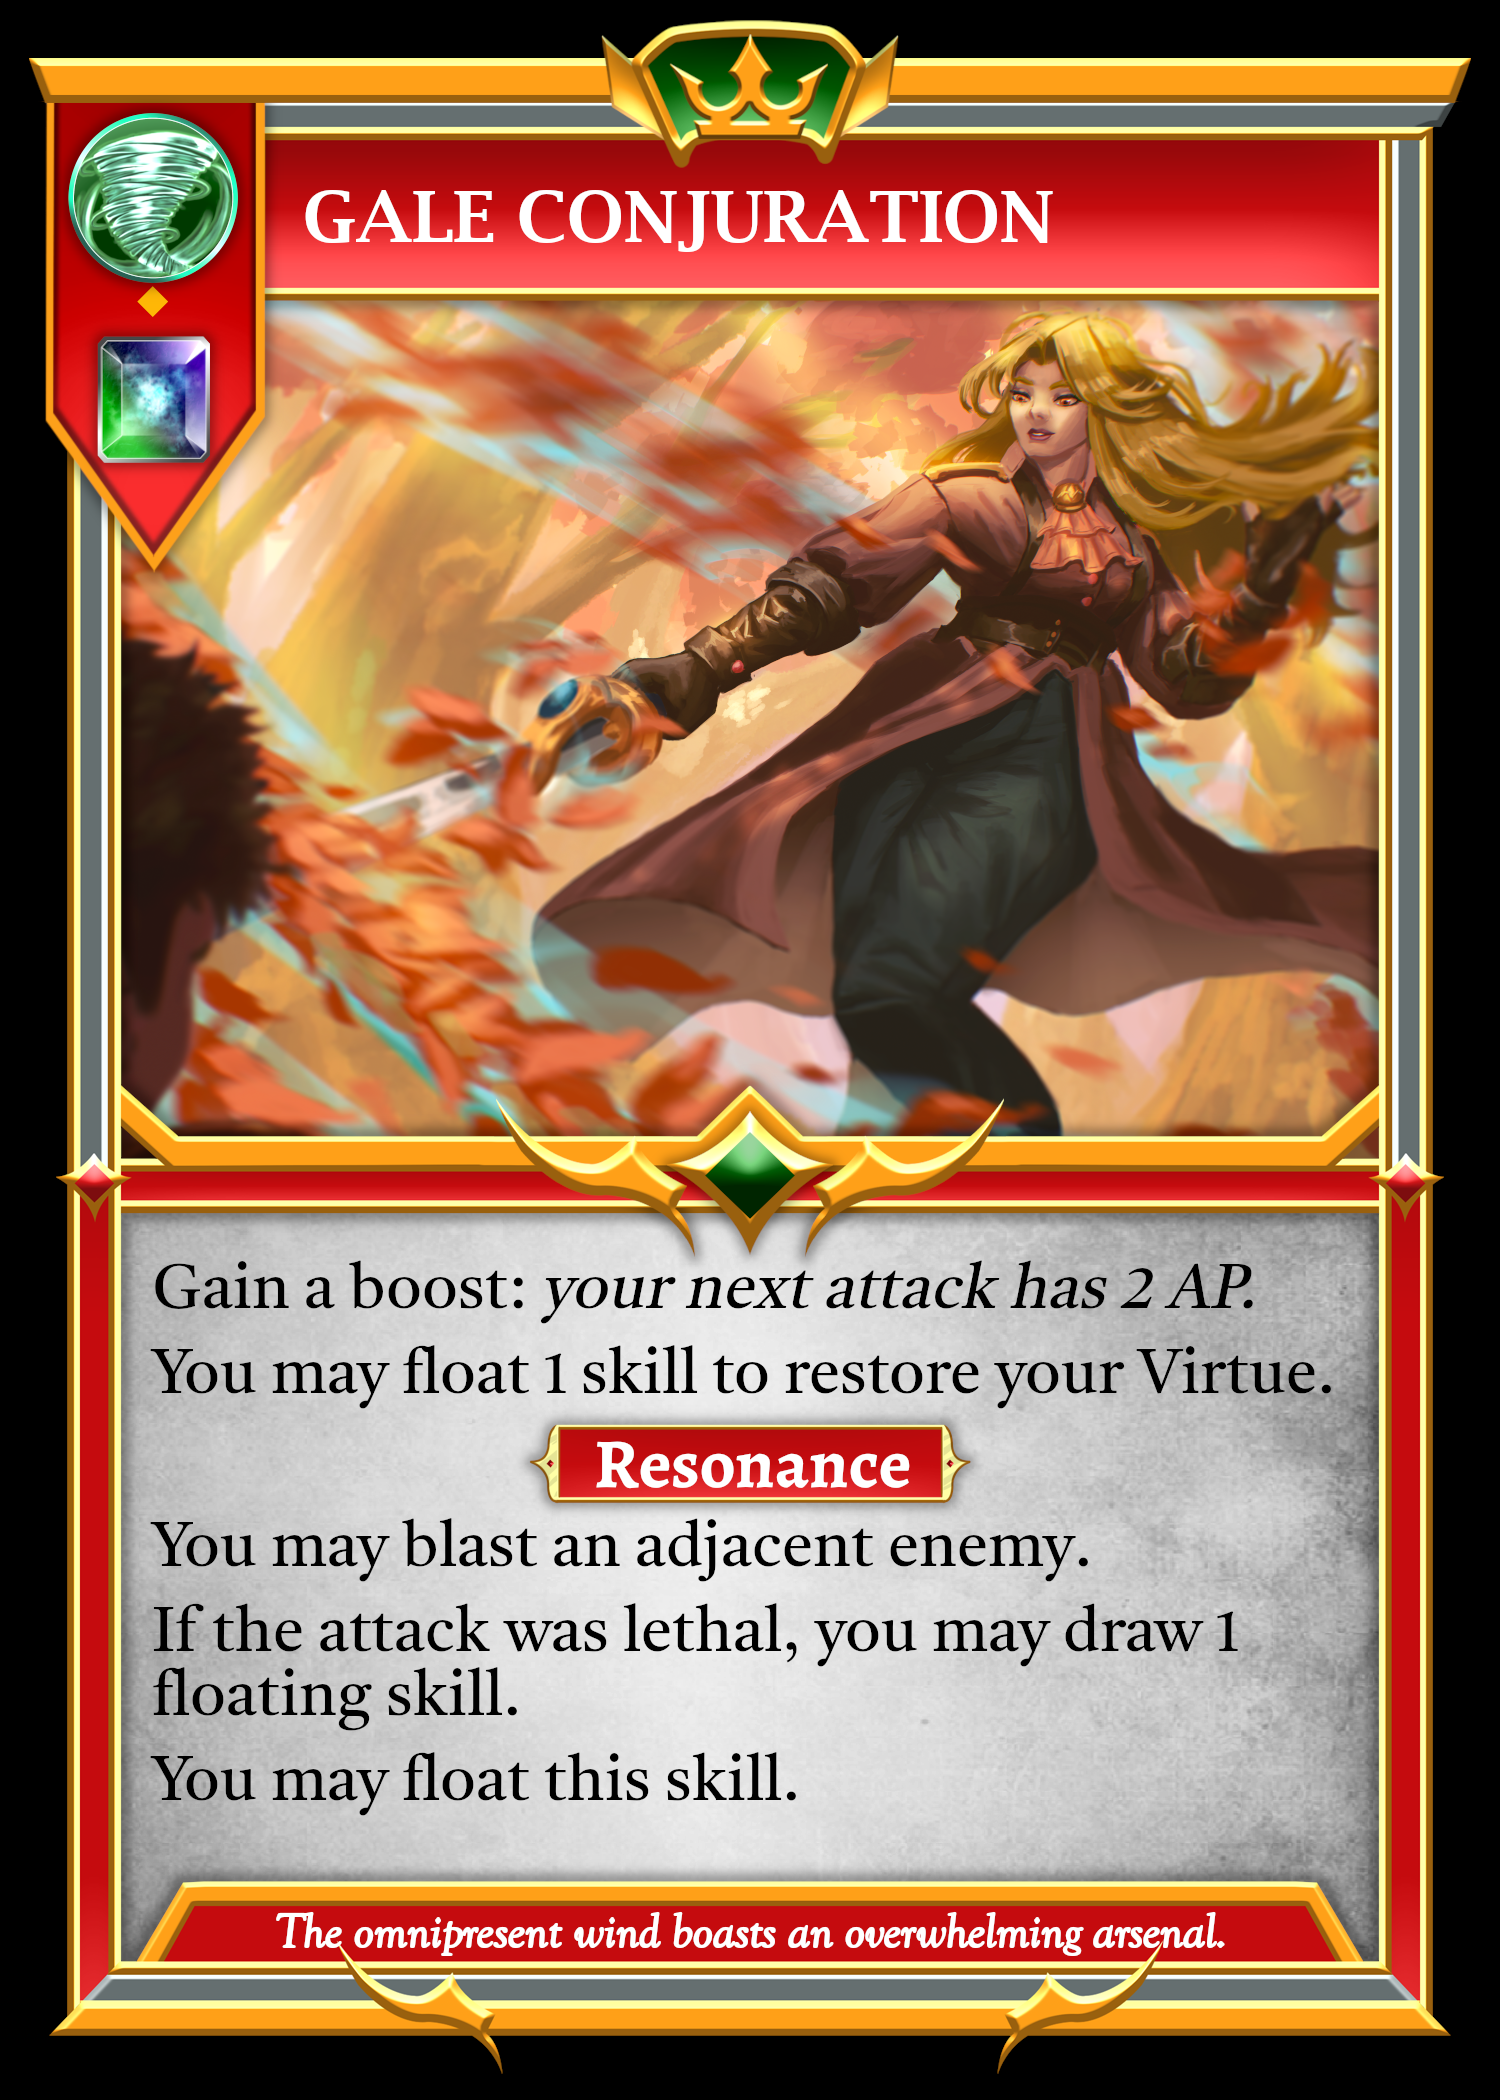
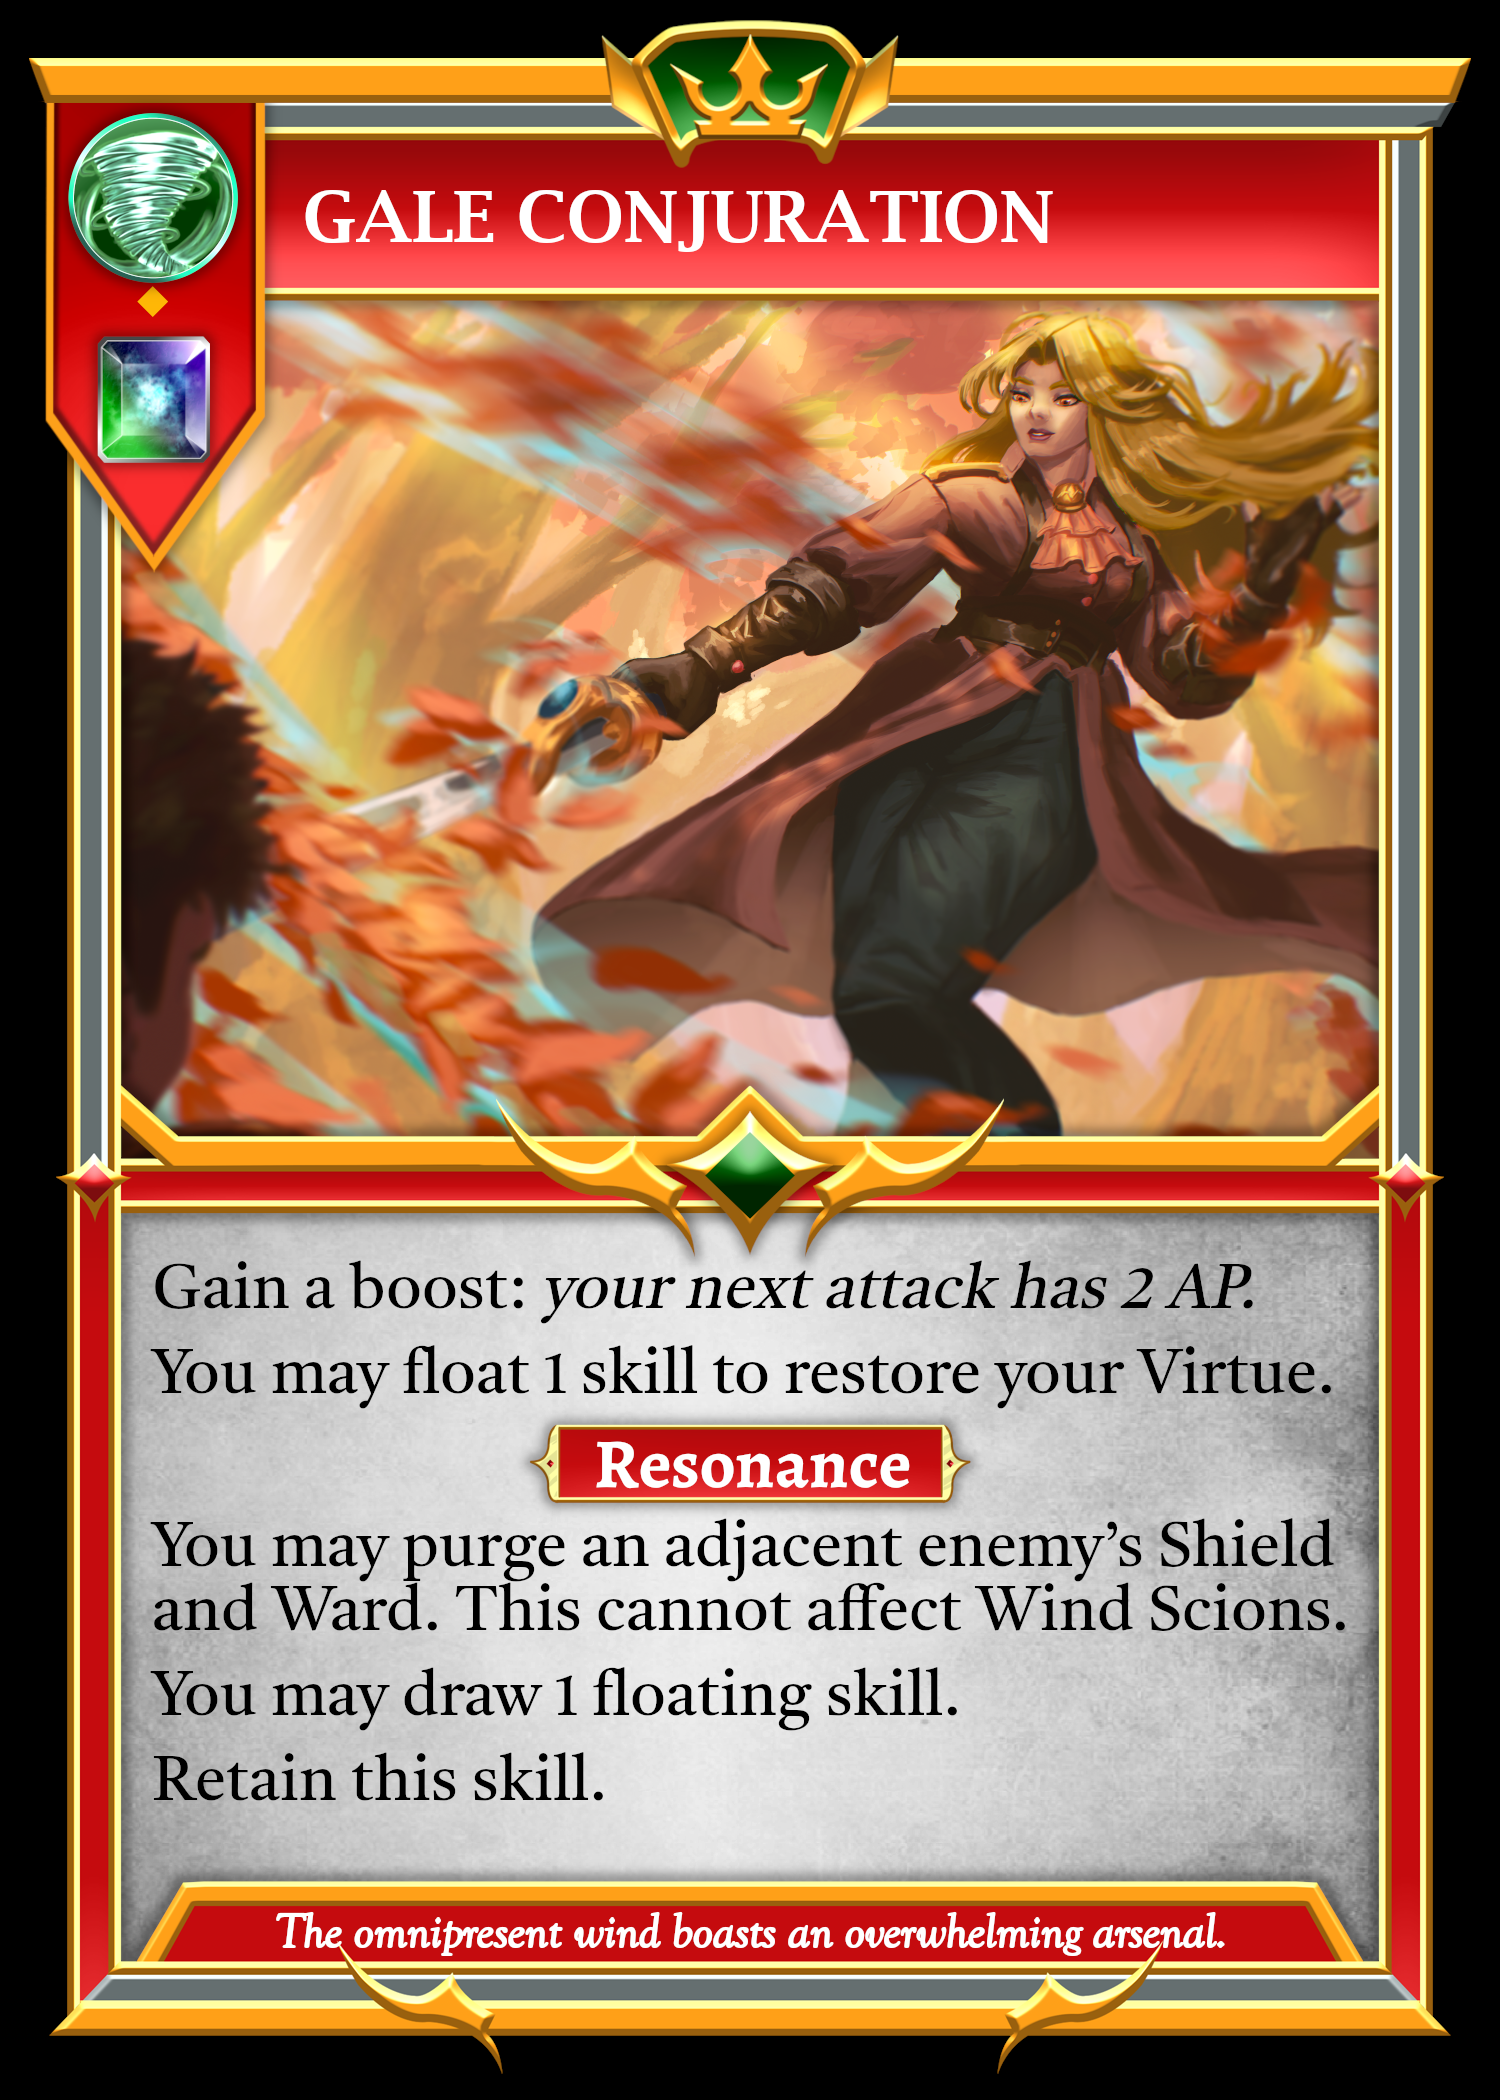
Reworked gale conjuration.

Changed region(s): [[0.092, 0.7119, 0.8893, 0.8667]]

diff --git a/src/hooks/useSkillEffects.jsx b/src/hooks/useSkillEffects.jsx
@@ -24,7 +24,6 @@ export const useSkillEffects = () => {
     isMuted,
     isRooted,
     paralyze1,
-    paralyze2,
   } = useRecurringEffects();
 
   const ignitionPropulsion1 = (unitInfo) => {
@@ -642,7 +641,7 @@ export const useSkillEffects = () => {
     if (resonator !== "SA-02") {
       newGameState.currentResolution.push({
         resolution: "Misc.",
-        resolution2: "May float resonant skill unit",
+        resolution2: "Retain resonant skill unit",
         unit: unit,
         player: unit.player,
         skill: "03-02",
@@ -674,66 +673,16 @@ export const useSkillEffects = () => {
   const galeConjurationR2 = (unitInfo) => {
     let newGameState = JSON.parse(JSON.stringify(localGameState));
     let unit = newGameState[unitInfo.player].units[unitInfo.unitIndex];
+    const zones = JSON.parse(localGameState.zones);
 
     // end "Gale ConjurationR1"
     newGameState.currentResolution.pop();
 
-    if (canBlast(unit)) {
-      // newGameState.currentResolution.push({
-      //   resolution: "Wind Skill",
-      //   resolution2: "Gale ConjurationR3",
-      //   unit: unit,
-      // });
-
-      newGameState.currentResolution.push({
-        resolution: "Wind Skill",
-        resolution2: "Gale ConjurationR2",
-        unit: unit,
-        details: {
-          reason: "Gale Conjuration Strike",
-          title: "Gale Conjuration",
-          message: "You may blast an adjacent enemy.",
-          no: "Skip",
-          yes: "Blast",
-        },
-      });
-    }
-
-    return newGameState;
-  };
-
-  const galeConjurationR3 = (unitInfo) => {
-    let newGameState = JSON.parse(JSON.stringify(localGameState));
-    let unit = newGameState[unitInfo.player].units[unitInfo.unitIndex];
-
-    // end "Gale ConjurationR3"
-    newGameState.currentResolution.pop();
-
-    //NERFED!!!
-    // if (
-    //   unit !== null &&
-    //   !isMuted(unit) &&
-    //   newGameState[enemy].skillHand.length > 0 &&
-    //   unit.temporary.galeConjurationLethal
-    // ) {
-    //   newGameState[unitInfo.player].units[unitInfo.unitIndex] = unit;
-    //   newGameState.currentResolution.push({
-    //     resolution: "Wind Skill",
-    //     resolution2: "Gale ConjurationR4",
-    //     player: enemy,
-    //   });
-    // }
-
-    if (
-      unit !== null &&
-      !isMuted(unit) &&
-      unit.temporary.galeConjurationLethal &&
-      newGameState[self].skillFloat.length > 0
-    ) {
+    if (newGameState[self].skillFloat.length > 0) {
       newGameState[unitInfo.player].units[unitInfo.unitIndex] = unit;
       newGameState.currentResolution.push({
         resolution: "Wind Skill",
-        resolution2: "Gale ConjurationR4",
+        resolution2: "Gale ConjurationR3",
         player: self,
         details: {
           reason: "Gale Conjuration Draw",
@@ -745,8 +694,34 @@ export const useSkillEffects = () => {
       });
     }
 
-    delete unit.temporary.galeConjurationLethal;
-    newGameState[unitInfo.player].units[unitInfo.unitIndex] = unit;
+    const zonesWithEnemies = getZonesWithEnemies(unit, 1);
+    let shieldedEnemyZones = [];
+
+    for (let z of zonesWithEnemies) {
+      const zone = zones[Math.floor(z / 5)][z % 5];
+      const enemy = newGameState[zone.player].units[zone.unitIndex];
+
+      if (enemy.enhancements.shield > 0 || enemy.enhancements.ward > 0) {
+        shieldedEnemyZones.push(z);
+      }
+    }
+
+    if (shieldedEnemyZones.length > 0) {
+      newGameState.currentResolution.push({
+        resolution: "Wind Skill",
+        resolution2: "Gale ConjurationR2",
+        unit: unit,
+        details: {
+          reason: "Gale Conjuration Purge",
+          title: "Gale Conjuration",
+          message:
+            "You may purge an adjacent enemy’s Shield and Ward. This cannot affect Wind Scions.",
+          no: "Skip",
+          yes: "Purge",
+          zones: shieldedEnemyZones,
+        },
+      });
+    }
 
     return newGameState;
   };
@@ -2466,7 +2441,7 @@ export const useSkillEffects = () => {
       unit: unit,
       details: {
         title: "Viridian Grave",
-        message: "You may spend 1 skill to gain Shield for 3 turns.",
+        message: "You may spend 1 skill to gain Shield for 2 turns.",
         restriction: null,
         reason: "Viridian Grave",
       },
@@ -2532,7 +2507,6 @@ export const useSkillEffects = () => {
     galeConjuration1,
     galeConjurationR1,
     galeConjurationR2,
-    galeConjurationR3,
     symphonicScreech1,
     cataclysmicTempest1,
     cataclysmicTempest2,

diff --git a/src/components/Board.jsx b/src/components/Board.jsx
@@ -125,6 +125,7 @@ const Board = (props) => {
     applyFrostbite,
     applyParalysis,
     applyScore,
+    appointShield,
     ascendPawn,
     avelhemResonance,
     avelhemToScion,
@@ -195,7 +196,6 @@ const Board = (props) => {
     galeConjuration1,
     galeConjurationR1,
     galeConjurationR2,
-    galeConjurationR3,
     symphonicScreech1,
     cataclysmicTempest1,
     cataclysmicTempest2,
@@ -1088,6 +1088,12 @@ const Board = (props) => {
               </>
             );
 
+          case "Appoint - Upgraded":
+            if (self === lastResolution.unit.player) {
+              resolutionUpdate(appointShield(lastResolution.unit));
+            }
+            break;
+
           case "Tactic Results":
             return (
               <>
@@ -1978,14 +1984,6 @@ const Board = (props) => {
             );
 
           case "Gale ConjurationR3":
-            if (self === lastResolution.unit.player) {
-              resolutionUpdateGameStateOnly(
-                galeConjurationR3(lastResolution.unit)
-              );
-            }
-            break;
-
-          case "Gale ConjurationR4":
             return (
               <>
                 {self === lastResolution.unit.player && !hideModal && (
@@ -4085,6 +4083,8 @@ const Board = (props) => {
       unitClass
     );
 
+    let newUnit = newGameState[self].units[newIndex];
+
     //updating zones info
     let newZoneInfo = [...zones];
     newZoneInfo[r][c].player = self;
@@ -4092,21 +4092,22 @@ const Board = (props) => {
     newGameState.zones = JSON.stringify(newZoneInfo);
 
     if (localGameState.turnPhase === "Acquisition") {
-      if (newGameState[self].bountyUpgrades.acquisition >= 1) {
-        newUnit.boosts.canVirtueBlast = true;
-      }
-
       newGameState.turnPhase = "Bounty";
       newGameState.currentResolution.pop();
       newGameState.currentResolution.push({
         resolution: "Bounty Phase Selection",
       });
+
+      if (newGameState[self].bountyUpgrades.acquisition >= 1) {
+        newGameState.currentResolution.push({
+          resolution: "Misc.",
+          resolution2: "Appoint - Upgraded",
+          unit: newUnit,
+        });
+      }
     }
 
     //Trigger Motion Contingency
-
-    let newUnit = newGameState[self].units[newIndex];
-
     if (newGameState[enemy].skillHand.length > 0 && triggerMotion(newUnit)) {
       newGameState.currentResolution.push({
         resolution: "Triggering Contingent Skill",
@@ -4597,6 +4598,19 @@ const Board = (props) => {
           unit: unit,
           victim: selectedUnit,
         });
+        break;
+
+      case "gale conjuration purge":
+        let galeConjurationEnemy =
+          newGameState[selectedUnit.player].units[selectedUnit.unitIndex];
+
+        if (galeConjurationEnemy.unitClass !== "Wind Scion") {
+          delete galeConjurationEnemy.enhancements.ward;
+          delete galeConjurationEnemy.enhancements.shield;
+
+          newGameState[selectedUnit.player].units[selectedUnit.unitIndex] =
+            galeConjurationEnemy;
+        }
         break;
 
       case "symphonic screech":

diff --git a/src/hooks/useRecurringEffects.jsx b/src/hooks/useRecurringEffects.jsx
@@ -2464,6 +2464,23 @@ export const useRecurringEffects = () => {
     return newGameState;
   };
 
+  const appointShield = (unitInfo) => {
+    let newGameState = JSON.parse(JSON.stringify(localGameState));
+    let unit = newGameState[unitInfo.player].units[unitInfo.unitIndex];
+
+    newGameState.currentResolution.pop();
+
+    if (unit) {
+      unit.enhancements.shield
+        ? (unit.enhancements.shield = Math.max(unit.enhancements.shield, 2))
+        : (unit.enhancements.shield = 2);
+    }
+
+    newGameState[unitInfo.player].units[unitInfo.unitIndex] = unit;
+
+    return newGameState;
+  };
+
   const ascendPawn = (
     newGameState,
     pawn,
@@ -3366,11 +3383,6 @@ export const useRecurringEffects = () => {
 
     //"If the attack was lethal" subsequent effects
     switch (special) {
-      case "Gale Conjuration Blast":
-        newGameState[attacker.player].units[
-          attacker.unitIndex
-        ].temporary.galeConjurationLethal = true;
-        break;
       case "Geomancy":
         newGameState[attacker.player].units[
           attacker.unitIndex
@@ -5454,6 +5466,7 @@ export const useRecurringEffects = () => {
     applyFrostbite,
     applyParalysis,
     applyScore,
+    appointShield,
     ascendPawn,
     assignTactics,
     avelhemResonance,

diff --git a/src/components/modals/YouMaySpend1Skill.jsx b/src/components/modals/YouMaySpend1Skill.jsx
@@ -75,8 +75,8 @@ const YouMaySpend1Skill = (props) => {
 
       case "Viridian Grave":
         unit.enhancements.shield
-          ? (unit.enhancements.shield = Math.max(3, unit.enhancements.shield))
-          : (unit.enhancements.shield = 3);
+          ? (unit.enhancements.shield = Math.max(2, unit.enhancements.shield))
+          : (unit.enhancements.shield = 2);
         newGameState[props.unit.player].units[props.unit.unitIndex] = unit;
         break;
 
@@ -218,8 +218,8 @@ const YouMaySpend1Skill = (props) => {
 
       case "Viridian Grave":
         unit.enhancements.shield
-          ? (unit.enhancements.shield = Math.max(3, unit.enhancements.shield))
-          : (unit.enhancements.shield = 3);
+          ? (unit.enhancements.shield = Math.max(2, unit.enhancements.shield))
+          : (unit.enhancements.shield = 2);
         newGameState[props.unit.player].units[props.unit.unitIndex] = unit;
         break;
 

diff --git a/src/components/modals/YouMayNoYes.jsx b/src/components/modals/YouMayNoYes.jsx
@@ -104,20 +104,14 @@ const YouMayNoYes = (props) => {
 
         break;
 
-      case "Gale Conjuration Strike": // "Gale ConjurationR2"
-        newGameState.currentResolution.push({
-          resolution: "Wind Skill",
-          resolution2: "Gale ConjurationR3",
-          unit: props.unit,
-        });
-
+      case "Gale Conjuration Purge": // "Gale ConjurationR2"
         enterSelectUnitMode(
-          getZonesWithEnemies(props.unit, 1),
+          props.details.zones,
           props.unit,
           newGameState,
           null,
-          "blast",
-          "Gale Conjuration Blast"
+          "gale conjuration purge",
+          "null"
         );
         break;
 

diff --git a/src/components/modals/AcquisitionPhaseSelection.jsx b/src/components/modals/AcquisitionPhaseSelection.jsx
@@ -41,7 +41,7 @@ const AcquisitionPhaseSelection = (props) => {
           <div className="choiceText ">⬩Deploy a pawn in your frontier.</div>
           <div className="choiceText ">
             ⬩{upgrade < 1 && <>If upgraded: </>}
-            Grant them a boost: “You can Virtue-blast.”
+            Grant them Shield for 2 turns.
           </div>
         </>
       ),
